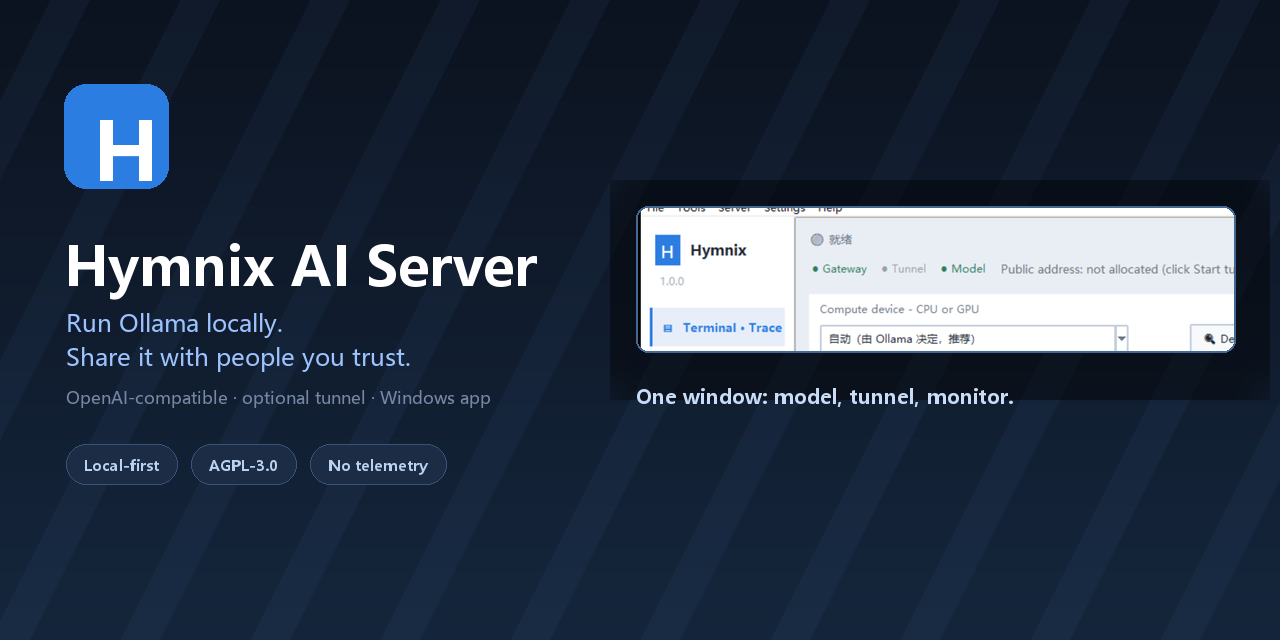
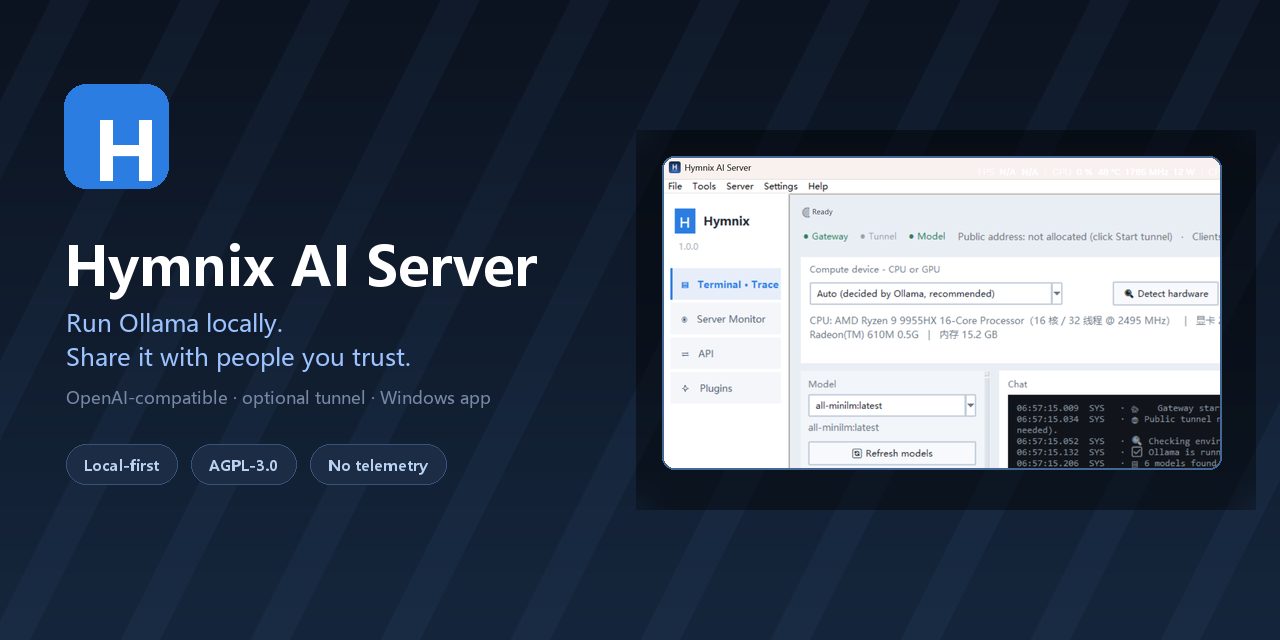
docs: new clean English screenshots and demo GIF

Changed region(s): [[0.5, 0.2188, 1.0, 0.8125]]

diff --git a/server/hymnix_main.py b/server/hymnix_main.py
@@ -257,7 +257,7 @@ ZH2EN = {
 }
 
 
-LANG = {"cur": "zh"}
+LANG = {"cur": os.environ.get("HYMNIX_LANG", "zh")}
 
 
 def T(zh, en):
@@ -2092,8 +2092,8 @@ class HuimengAIClient:
         return "   ·   ".join(bits)
 
     # ==================== 计算设备（CPU / 显卡 选择）====================
-    DEVICE_AUTO_TEXT = "自动（由 Ollama 决定，推荐）"
-    DEVICE_CPU_TEXT = "CPU（纯 CPU 推理，不占显存）"
+    DEVICE_AUTO_TEXT = T("自动（由 Ollama 决定，推荐）", "Auto (decided by Ollama, recommended)")
+    DEVICE_CPU_TEXT = T("CPU（纯 CPU 推理，不占显存）", "CPU only (no VRAM)")
 
     def build_device_bar(self, parent, row):
         """计算设备条：无边框卡片，靠底色差异分层"""
@@ -2160,7 +2160,8 @@ class HuimengAIClient:
         self.hw_summary_var.set("CPU: %s（%d 核 / %d 线程 @ %d MHz）   |   显卡 %d 张：%s   |   内存 %.1f GB" % (
             cpu.get("name", "未知"), cpu.get("cores", 0), cpu.get("threads", 0), cpu.get("mhz", 0),
             len(gpus), gpu_txt, data.get("ram_gb", 0)))
-        self.queue_message("system", "🖥 硬件: %s，检测到 %d 张显卡" % (cpu.get("name", "未知"), len(gpus)))
+        self.queue_message("system", T("🖥 硬件: %s，检测到 %d 张显卡" % (cpu.get("name", "未知"), len(gpus)),
+                "🖥 Hardware: %s, %d GPU(s) detected" % (cpu.get("name", "Unknown"), len(gpus))))
         if current.startswith("gpu:"):
             self.update_device_hint("⚠ 配置里记着上次选的 GPU，但当前 Ollama 服务不一定绑定了它，点『✔ 应用』可重新绑定")
         elif current == "cpu":
@@ -2312,13 +2313,13 @@ class HuimengAIClient:
             return
 
         def check_task():
-            self.queue_message("system", "🔍 检查环境中...")
+            self.queue_message("system", T("🔍 检查环境中...", "🔍 Checking environment..."))
             if not self.ollama_manager.is_ollama_installed():
                 self.queue_message("system", "❌ 未检测到Ollama")
                 self.root.after(1000, self.ask_install_ollama)
                 return
             if self.ollama_manager.is_service_running():
-                self.queue_message("system", "✅ Ollama服务正在运行")
+                self.queue_message("system", T("✅ Ollama服务正在运行", "✅ Ollama is running"))
                 self.update_connection_status(True)
                 self.refresh_models()
                 self.update_status("🟢 就绪")
@@ -2658,7 +2659,7 @@ class HuimengAIClient:
                 self.config["last_model"] = models[0]
                 self.save_config()
             self.update_model_info()
-            self.queue_message("system", f"📋 找到 {len(models)} 个模型")
+            self.queue_message("system", T("📋 找到 %d 个模型" % len(models), "📋 %d models found" % len(models)))
         else:
             self.model_combo["values"] = ["无可用模型"]
             self.model_var.set("无可用模型")
